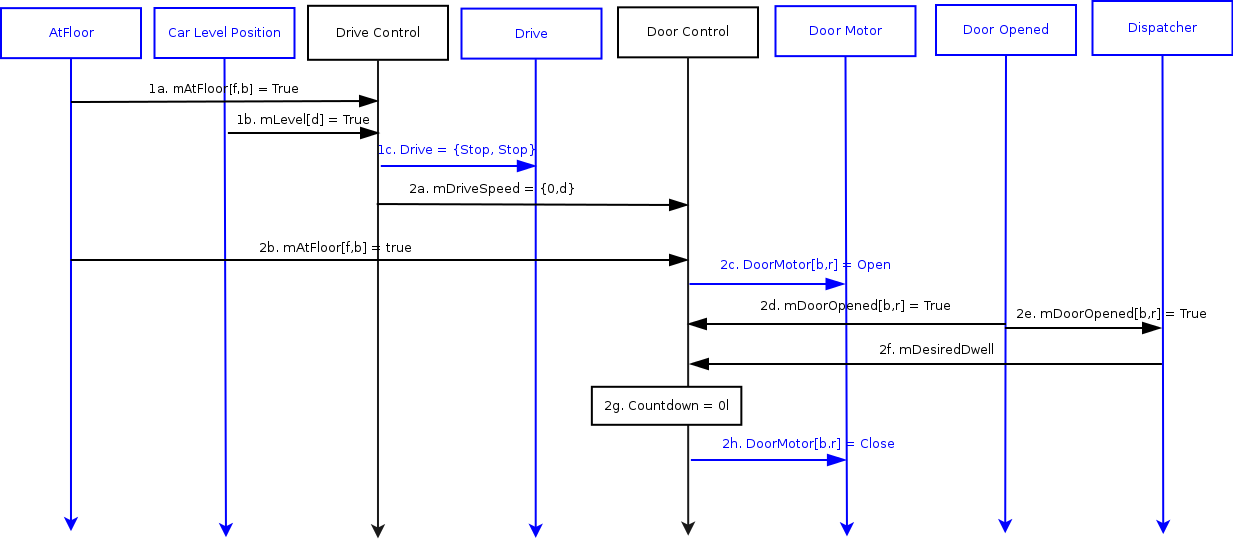
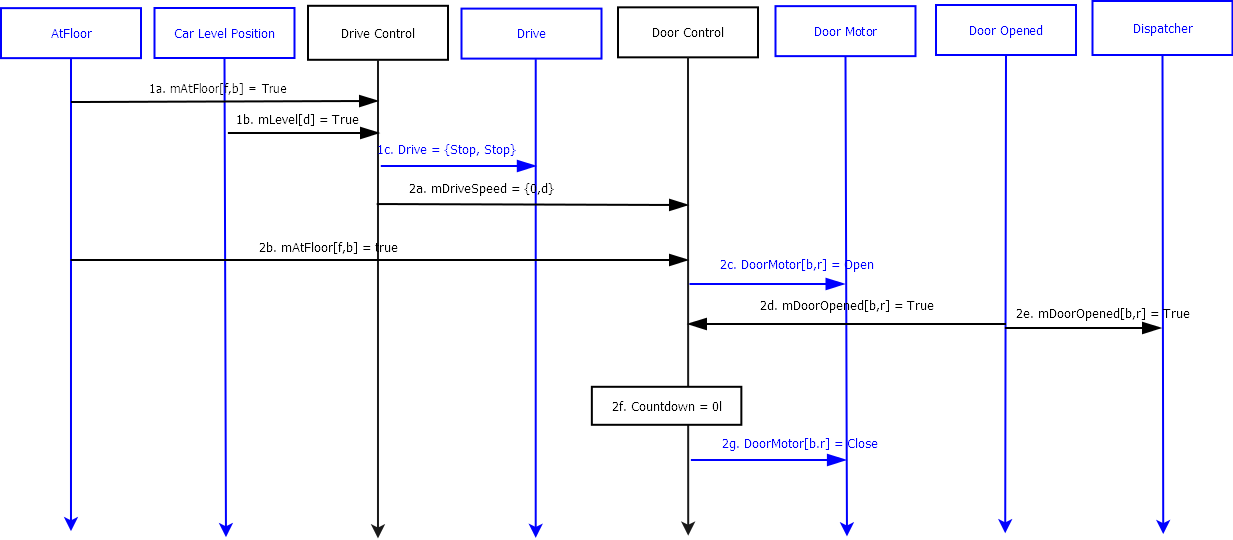
seq4a, dispatcher code update

diff --git a/portfolio/elevatorcontrol/Dispatcher.java b/portfolio/elevatorcontrol/Dispatcher.java
@@ -37,15 +37,13 @@ public class Dispatcher extends Controller{
 	 * Declarations
 	 ***********************/
 	//Network interface
-	//Outputs: mDesiredFloor and mDesiredDwell
+	//Outputs: mDesiredFloor 
 	private WriteableCanMailbox networkDesiredFloor;
-	private WriteableCanMailbox networkDesiredDwellF;
-	private WriteableCanMailbox networkDesiredDwellB;
+
 
 	//Respective translators for output messages
 	private DesiredFloorCanPayloadTranslator mDesiredFloor;
-	private DesiredDwellCanPayloadTranslator mDesiredDwellF;
-	private DesiredDwellCanPayloadTranslator mDesiredDwellB;
+
 
 	/*Inputs:mAtFloor, mDoorClosed, mHallCall,
 	 * mCarCall, mCarWeight
@@ -75,7 +73,7 @@ public class Dispatcher extends Controller{
 	private Hallway hallway;
 	private Direction direction;
     private Direction curr_d;
-	private SimTime dwellTime;
+
     
 
 	//Store he period for the controller
@@ -104,7 +102,6 @@ public class Dispatcher extends Controller{
 		hallway = Hallway.BOTH;
 		//represents the next direction
 		direction = Direction.STOP;
-		dwellTime = new SimTime(2, SimTime.SimTimeUnit.SECOND);
 		
 		log("Created Dispatcher with period = ", period);
 
@@ -113,22 +110,8 @@ public class Dispatcher extends Controller{
 		networkDesiredFloor = CanMailbox.getWriteableCanMailbox(MessageDictionary.DESIRED_FLOOR_CAN_ID);
 		mDesiredFloor = new DesiredFloorCanPayloadTranslator(networkDesiredFloor);
 
-		networkDesiredDwellF = CanMailbox.getWriteableCanMailbox(
-						MessageDictionary.DESIRED_DWELL_BASE_CAN_ID +
-						ReplicationComputer.computeReplicationId(Hallway.FRONT));
-		mDesiredDwellF = new DesiredDwellCanPayloadTranslator(networkDesiredDwellF,Hallway.FRONT);
-		
-		networkDesiredDwellB = CanMailbox.getWriteableCanMailbox(
-				MessageDictionary.DESIRED_DWELL_BASE_CAN_ID +
-				ReplicationComputer.computeReplicationId(Hallway.BACK));
-		mDesiredDwellB = new DesiredDwellCanPayloadTranslator(networkDesiredDwellB,Hallway.BACK);
-
 
 		canInterface.sendTimeTriggered(networkDesiredFloor,period);
-		canInterface.sendTimeTriggered(networkDesiredDwellF,period);
-		canInterface.sendTimeTriggered(networkDesiredDwellB,period);
-
-
 
 		//Inputs
 		//CarWeight
@@ -207,8 +190,7 @@ public class Dispatcher extends Controller{
     	canInterface.registerTimeTriggered(networkDriveSpeed);
     	
 		//initially set target to lobby.
-		mDesiredDwellF.set(dwellTime);
-		mDesiredDwellB.set(dwellTime);
+
 		mDesiredFloor.set(floor,hallway,direction);
 		
 		timer.start(period);	    
